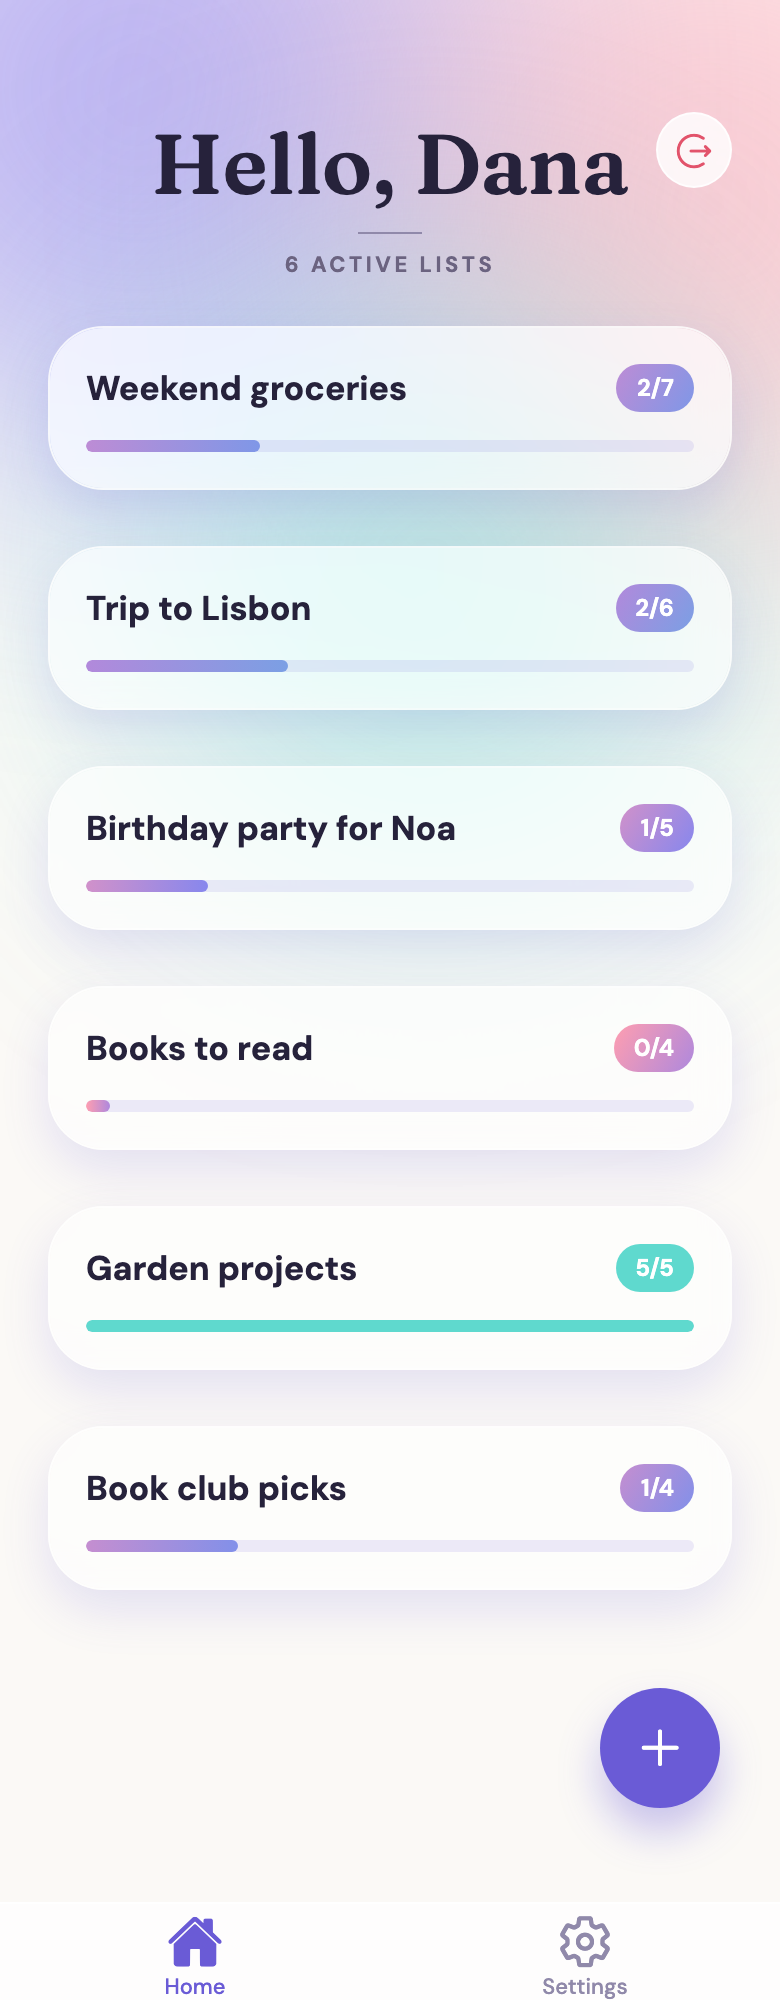
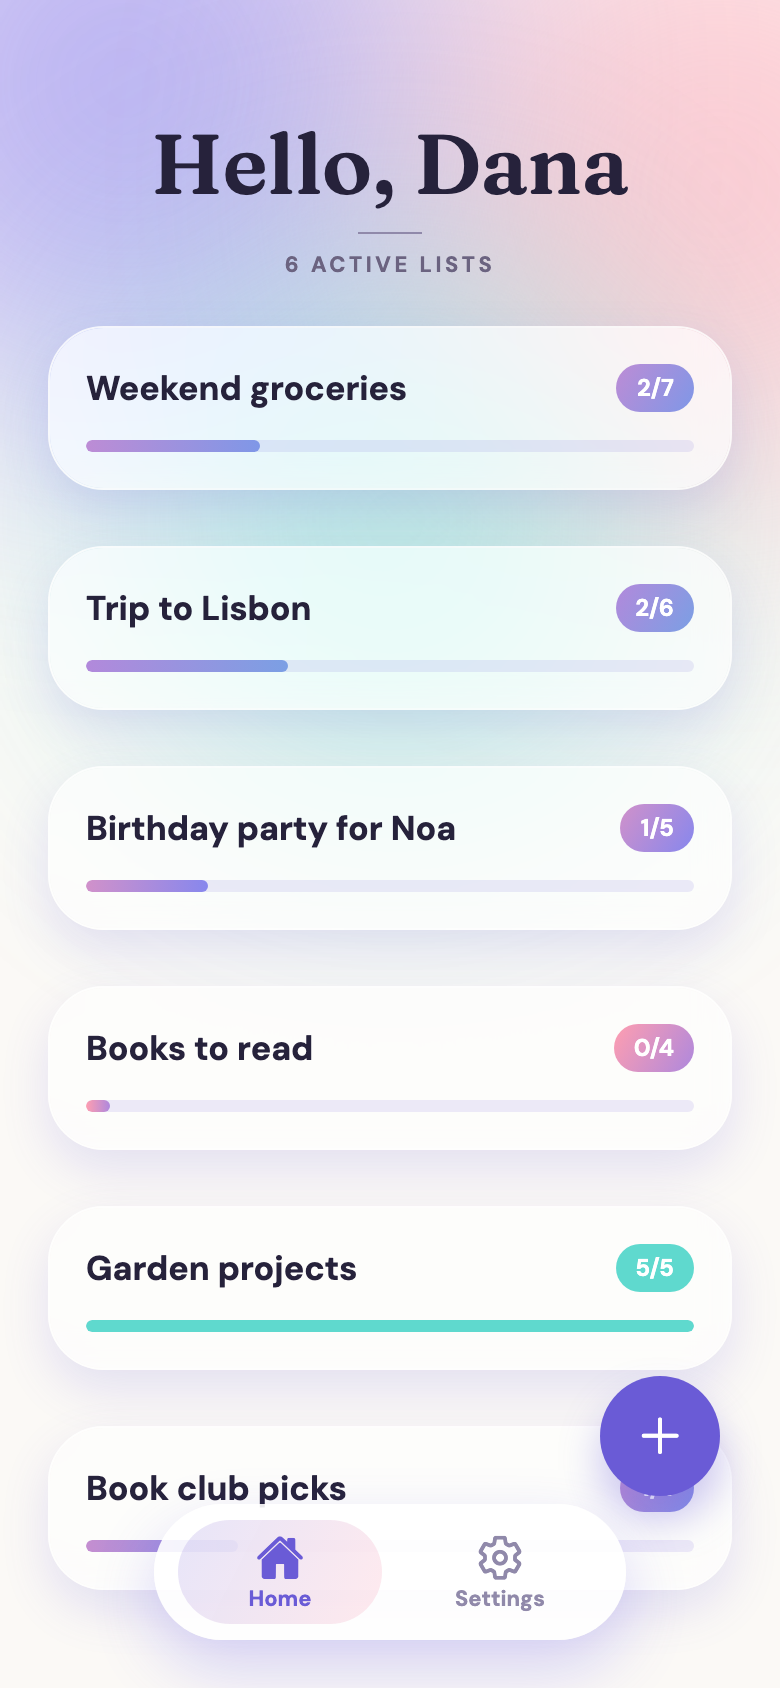
Update the README screenshots and notes for the refreshed app design
WHY
The frontend now has a new look (photo-first rows, a floating bottom bar,
swipe to delete with Undo, whole-page loading). The backend README shows
screens served by this API, so its screenshots must match the current app,
and its notes must stay accurate.

WHAT CHANGED
- docs/screenshots: login, home and sharing replaced with screenshots of the
  current design.
- docs/features.md: the pictures line now names the endpoint the app really
  uses (sync_images, when Update List is pressed), and a note explains that
  reordering, ticking and deleting an item (with Undo) happen on the screen
  only, so the API did not change for the new design.

CHECKS RUN
- Every relative link and image in the README and the docs pages resolves.
- This commit changes only documentation and screenshots; no server code,
  tests, models or migrations were touched. The 73 backend tests still pass.

diff --git a/docs/features.md b/docs/features.md
@@ -68,10 +68,11 @@ The screens belong to the frontend; the API supports them as follows.
    - Create and manage new lists (`/listitem/`).  
 
 3. **List Creation**  
-   - Add items and images (`/listitemimages/upload_images/`).  
+   - Add items and pictures; the pictures are saved together with the list when the person presses Update List (`/listitemimages/sync_images/`).  
 
 4. **Edit and Share Lists**  
    - Modify list details and tasks.  
+   - Reordering rows, ticking items and deleting an item (a swipe, followed by Undo for 5 seconds) happen on the screen only: nothing is sent to the API until the person presses Update List, so the API did not change for the refreshed app design.  
    - Share lists with additional users and set permissions (`/get_user_info/{email}/`, `/grouplists/`).  
 
 5. **Settings**  
